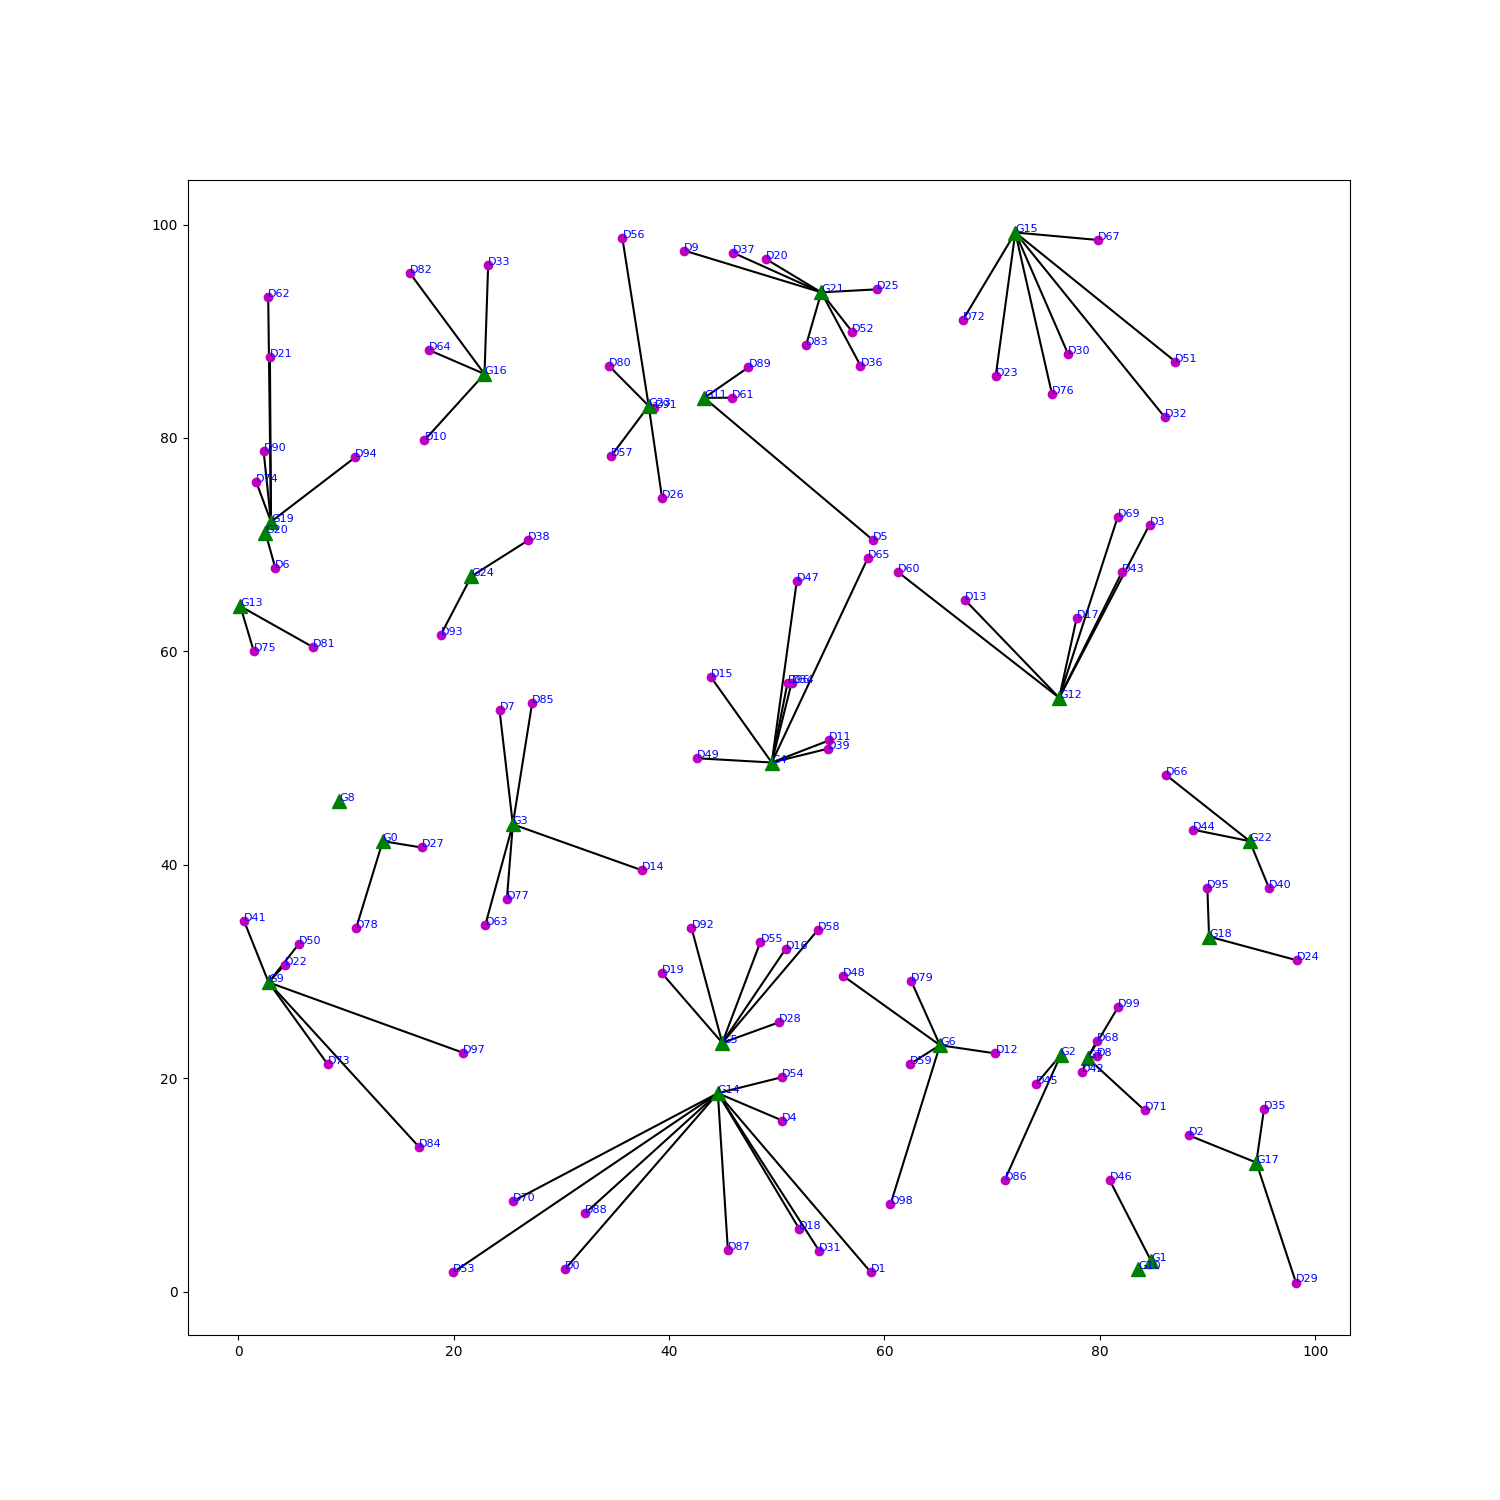
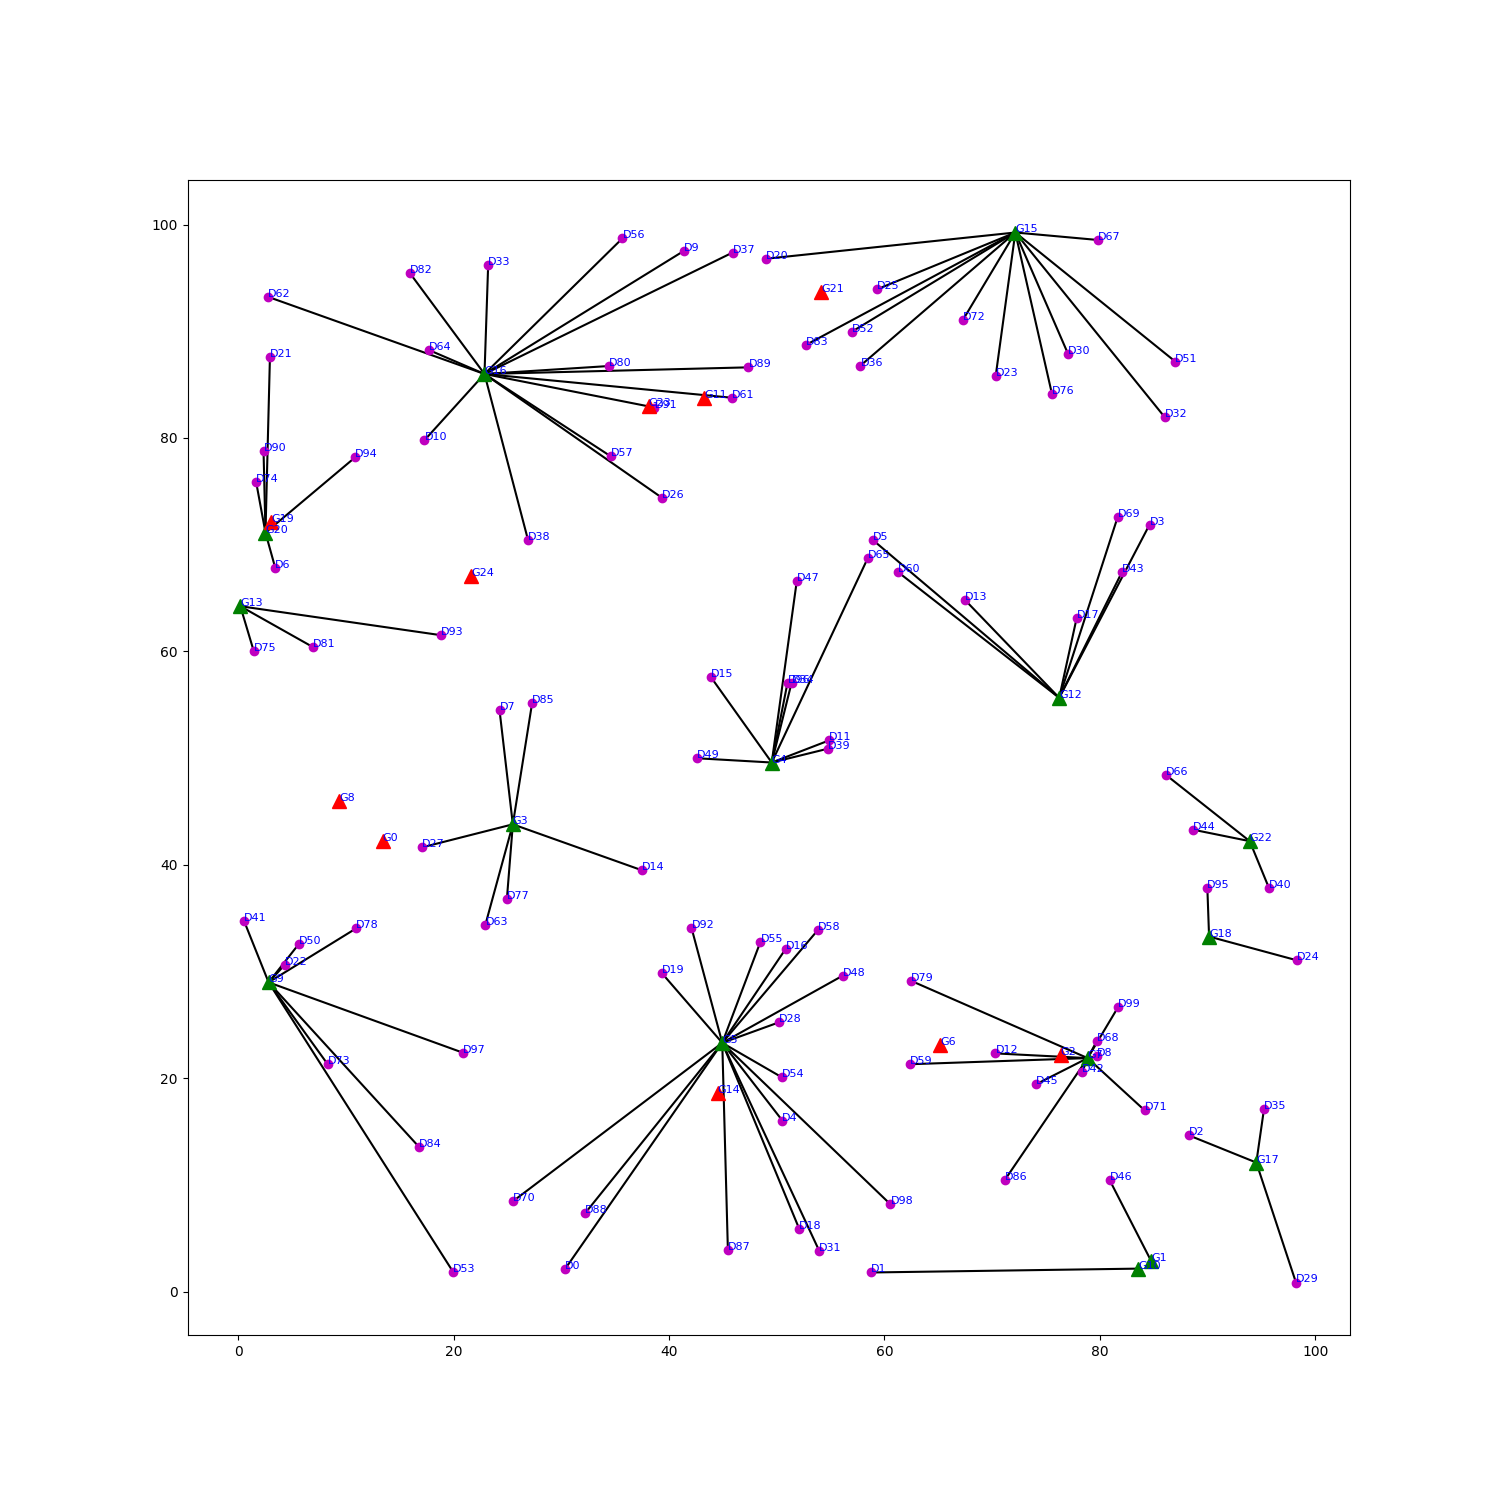
ER : Corrected code

diff --git a/tp2/tp2/solve.py b/tp2/tp2/solve.py
@@ -35,14 +35,53 @@ class Solve:
         total_cost = self.instance.get_solution_cost(assigned_generators, opened_generators)
         self.instance.plot_solution(assigned_generators, opened_generators)
 
-        print("[ASSIGNED-GENERATOR]", assigned_generators)
-        print("[OPENED-GENERATOR]", opened_generators)
-        print("[SOLUTION-COST]", total_cost)
+        # print("[ASSIGNED-GENERATOR]", assigned_generators)
+        # print("[OPENED-GENERATOR]", opened_generators)
+        # print("[SOLUTION-COST]", total_cost)
 
+        return opened_generators,assigned_generators,total_cost
 
+    def solve(self):
+        # solution initial
+        best_opened_generators, best_assigned_generators, best_cost = self.solve_naive()
+        temp_assigned_generators = best_assigned_generators.copy()
+        temp_opened_generators = best_opened_generators.copy()
+        temp_cost = best_cost
 
+        for iterations in range(10):
+            for i in range(self.n_generator):
+                assigned_generators = best_assigned_generators.copy()
+                opened_generators = best_opened_generators.copy()
+                opened_generators[i] = 0
 
+                for j in range(self.n_device):
+                    if assigned_generators[j] == i:
+                        generators_indexes = [a for a, x in enumerate(opened_generators) if x == 1]
+                        closest_generator = min(generators_indexes,
+                                                key=lambda k: self.instance.get_distance(
+                                                    self.instance.device_coordinates[j][0],
+                                                    self.instance.device_coordinates[j][1],
+                                                    self.instance.generator_coordinates[k][0],
+                                                    self.instance.generator_coordinates[k][1])
+                                                )
 
+                        assigned_generators[j] = closest_generator
 
+                cost = self.instance.get_solution_cost(assigned_generators, opened_generators)
 
+                if cost <= temp_cost:
+                    temp_assigned_generators = assigned_generators.copy()
+                    temp_opened_generators = opened_generators.copy()
+                    temp_cost = cost
 
+                opened_generators[i] = 1
+
+            best_assigned_generators = temp_assigned_generators.copy()
+            best_opened_generators = temp_opened_generators.copy()
+            best_cost = temp_cost
+
+        self.instance.solution_checker(best_assigned_generators, best_opened_generators)
+        self.instance.plot_solution(best_assigned_generators, best_opened_generators)
+        print("[ASSIGNED-GENERATOR]", best_assigned_generators)
+        print("[OPENED-GENERATOR]", best_opened_generators)
+        print("[SOLUTION-COST]", best_cost)

diff --git a/tp2/tp2/main.py b/tp2/tp2/main.py
@@ -28,4 +28,4 @@ if __name__ == '__main__':
 
     solveur = Solve(args.n_generator, args.n_device, args.seed)
 
-    solveur.solve_naive()
+    solveur.solve()
